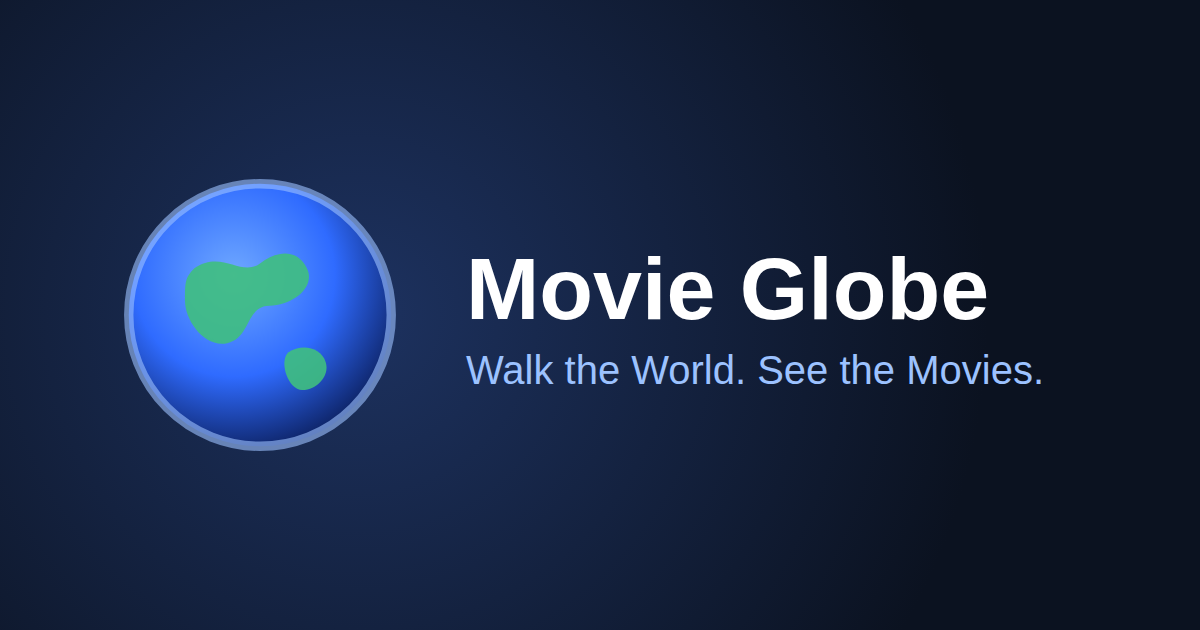
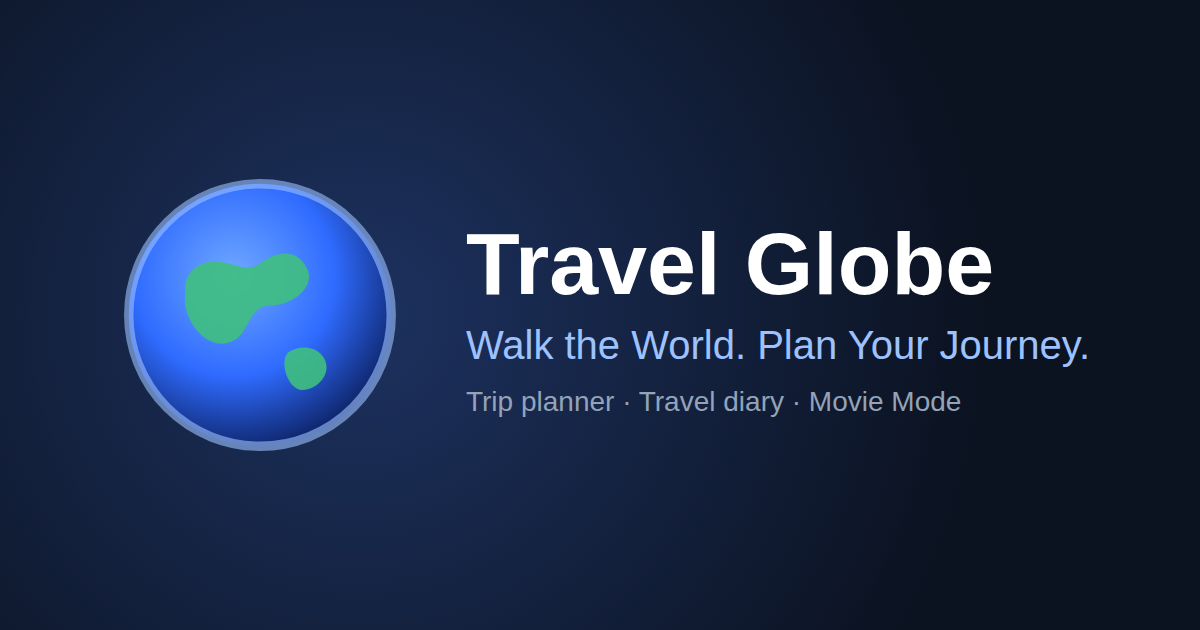
Rename app to Travel Globe; show Movie Globe only in Movie Mode
Claude-Session: https://claude.ai/code/session_01QopA1L5wnMb5PqXuQnHyca

Changed region(s): [[0.37, 0.3619, 0.925, 0.6635]]

diff --git a/index.html b/index.html
@@ -5,11 +5,11 @@
     <link rel="icon" type="image/svg+xml" href="/favicon.svg" />
     <meta name="viewport" content="width=device-width, initial-scale=1.0, viewport-fit=cover" />
     <meta name="theme-color" content="#0B1220" />
-    <title>Movie Globe — Walk the World. See the Movies.</title>
-    <meta name="description" content="Walk a customisable character across an interactive 3D globe to visit famous film locations, learn about them and plan a real trip." />
+    <title>Travel Globe — Walk the World. Plan Your Journey.</title>
+    <meta name="description" content="Plan trips anywhere on an interactive 3D globe, keep a travel diary, and switch to Movie Mode to visit famous film locations." />
     <meta property="og:type" content="website" />
-    <meta property="og:title" content="Movie Globe — Walk the World. See the Movies." />
-    <meta property="og:description" content="An interactive 3D globe of famous film locations. Explore, collect passport stamps and plan your trip." />
+    <meta property="og:title" content="Travel Globe — Walk the World. Plan Your Journey." />
+    <meta property="og:description" content="Plan trips and keep a travel diary on a 3D globe — or switch to Movie Mode to explore famous film locations." />
     <meta property="og:image" content="/og-image.png" />
     <meta name="twitter:card" content="summary_large_image" />
     <link rel="apple-touch-icon" href="/icons/icon-192.png" />
@@ -19,7 +19,7 @@
   </head>
   <body>
     <div id="root"></div>
-    <noscript>Movie Globe needs JavaScript to show the interactive globe.</noscript>
+    <noscript>Travel Globe needs JavaScript to show the interactive globe.</noscript>
     <script type="module" src="/src/main.tsx"></script>
   </body>
 </html>

diff --git a/src/lib/brand.ts b/src/lib/brand.ts
@@ -1,0 +1,20 @@
+import { useEffect } from 'react';
+import { useAppStore, type AppMode } from '../store/useAppStore';
+
+/** The app is "Travel Globe"; it becomes "Movie Globe" only while in Movie Mode. */
+export const BRAND: Record<AppMode, { name: string; tagline: string }> = {
+  normal: { name: 'Travel Globe', tagline: 'Walk the World. Plan Your Journey.' },
+  movie: { name: 'Movie Globe', tagline: 'Walk the World. See the Movies.' },
+};
+
+export function useBrand() {
+  return BRAND[useAppStore((s) => s.appMode)];
+}
+
+/** Keeps the browser tab title in sync with the current mode's brand. */
+export function useDocumentTitle(): void {
+  const { name, tagline } = useBrand();
+  useEffect(() => {
+    document.title = `${name} — ${tagline}`;
+  }, [name, tagline]);
+}

diff --git a/vite.config.ts b/vite.config.ts
@@ -12,9 +12,9 @@ export default defineConfig({
       registerType: 'autoUpdate',
       includeAssets: ['favicon.svg', 'textures/earth/*_2k.webp'],
       manifest: {
-        name: 'Movie Globe',
-        short_name: 'Movie Globe',
-        description: 'Walk the World. See the Movies.',
+        name: 'Travel Globe',
+        short_name: 'Travel Globe',
+        description: 'Walk the World. Plan Your Journey.',
         theme_color: '#0B1220',
         background_color: '#0B1220',
         display: 'standalone',

diff --git a/scripts/gen_credits.py b/scripts/gen_credits.py
@@ -7,14 +7,15 @@ photos = json.loads((ROOT / "src/data/photos.json").read_text())
 locs = {l["slug"]: l for l in json.loads((ROOT / "src/data/locations.json").read_text())}
 
 out = ["# Credits", "",
-       "Movie Globe uses only free assets (CC0, public domain or CC BY). No movie posters, stills, logos or soundtrack clips are used.", "",
+       "Travel Globe (and its Movie Mode, Movie Globe) uses only free assets (CC0, public domain or CC BY). No movie posters, stills, logos or soundtrack clips are used.", "",
        "## Earth textures", "",
        "- **Day (Blue Marble: Next Generation, Dec 2004)** — NASA Earth Observatory / Reto Stöckli. Public domain. [Source](https://visibleearth.nasa.gov/images/73909)",
        "- **Night lights (Black Marble 2012)** — NASA Earth Observatory / NOAA NGDC. Public domain. [Source](https://visibleearth.nasa.gov/images/79765)",
        "- **Clouds (Blue Marble cloud composite)** — NASA Goddard Space Flight Center. Public domain. [Source](https://visibleearth.nasa.gov/images/57747)",
        "- **Topography (bump) and ocean mask (specular)** — derived from NASA / GEBCO elevation map. Public domain. [Source](https://visibleearth.nasa.gov/images/73934)",
        "",
-       "## Character, sound and icons", "",
+       "## Character, sound, search and icons", "",
+       "- **Place search & reverse geocoding (Normal Mode)** — [OpenStreetMap Nominatim](https://nominatim.org) · Data © [OpenStreetMap contributors](https://www.openstreetmap.org/copyright) (ODbL).",
        "- **Explorer character, balloon and pins** — built procedurally in code for this project (no third-party models).",
        "- **Ambient music and sound effects** — synthesised at runtime with the Web Audio API (no audio files).",
        "- **Icons** — [Lucide](https://lucide.dev) (ISC licence).",
@@ -31,6 +32,6 @@ for slug, items in photos.items():
         out.append(f"- {p['credit']} — {p['license']} — [Source]({p['sourceUrl'].replace('(', '%28').replace(')', '%29')})")
     out.append("")
 out += ["## Disclaimer", "",
-        "Movie Globe is not affiliated with Trip.com or any film studio. Film titles are used only to identify locations. Location descriptions are original text written for this project.", ""]
+        "Travel Globe / Movie Globe is not affiliated with Trip.com or any film studio. Film titles are used only to identify locations. Location descriptions are original text written for this project.", ""]
 (ROOT / "CREDITS.md").write_text("\n".join(out))
 print("wrote CREDITS.md", sum(len(v) for v in photos.values()), "photos")

diff --git a/CREDITS.md b/CREDITS.md
@@ -1,6 +1,6 @@
 # Credits
 
-Movie Globe uses only free assets (CC0, public domain or CC BY). No movie posters, stills, logos or soundtrack clips are used.
+Travel Globe (and its Movie Mode, Movie Globe) uses only free assets (CC0, public domain or CC BY). No movie posters, stills, logos or soundtrack clips are used.
 
 ## Earth textures
 
@@ -9,8 +9,9 @@ Movie Globe uses only free assets (CC0, public domain or CC BY). No movie poster
 - **Clouds (Blue Marble cloud composite)** — NASA Goddard Space Flight Center. Public domain. [Source](https://visibleearth.nasa.gov/images/57747)
 - **Topography (bump) and ocean mask (specular)** — derived from NASA / GEBCO elevation map. Public domain. [Source](https://visibleearth.nasa.gov/images/73934)
 
-## Character, sound and icons
+## Character, sound, search and icons
 
+- **Place search & reverse geocoding (Normal Mode)** — [OpenStreetMap Nominatim](https://nominatim.org) · Data © [OpenStreetMap contributors](https://www.openstreetmap.org/copyright) (ODbL).
 - **Explorer character, balloon and pins** — built procedurally in code for this project (no third-party models).
 - **Ambient music and sound effects** — synthesised at runtime with the Web Audio API (no audio files).
 - **Icons** — [Lucide](https://lucide.dev) (ISC licence).
@@ -136,4 +137,4 @@ Photos show the real filming locations. Each is used under the licence listed; c
 
 ## Disclaimer
 
-Movie Globe is not affiliated with Trip.com or any film studio. Film titles are used only to identify locations. Location descriptions are original text written for this project.
+Travel Globe / Movie Globe is not affiliated with Trip.com or any film studio. Film titles are used only to identify locations. Location descriptions are original text written for this project.

diff --git a/Handover.md b/Handover.md
@@ -1,4 +1,4 @@
-# Handover — Movie Globe
+# Handover — Travel Globe (Movie Globe in Movie Mode)
 
 ## 1. Task status
 
@@ -14,6 +14,14 @@
 | H Extras | T41–T45 | ✅ Done (tours, passport, deep links + share, synthesised audio off by default, 3-step onboarding) |
 | I Release | T46–T50 | ✅ Done (loading screen, lazy pages/photos, adaptive quality + Low power toggle, a11y list view, PWA, unit + E2E tests, CI workflow) |
 | | T51 Deploy | ⛔ Blocked — needs a hosting account. `vercel.json` / `netlify.toml` and OG/meta tags are ready |
+
+### Normal Mode / Movie Mode (follow-up)
+
+- Toggle: `src/ui/ModeToggle.tsx` (top centre on desktop, under the header on mobile). Mode persists; Normal Mode is the default.
+- Switching (`src/lib/mode.ts`) clears the selection, tours, filters and travel, leaves pages that belong to the other mode, and swaps the pins, navigation, search, Explore list, journey bar, tap behaviour, arrival logic and branding (Travel Globe vs. Movie Globe, `src/lib/brand.ts`).
+- Normal Mode: places are stored as `DiaryPlace` in the persisted store; `/place/new`, `/place/:id` (`src/ui/PlacePanel.tsx`) and `/trips` (`src/pages/TripsPage.tsx`) cover the planner and diary. Place names come from OpenStreetMap Nominatim (`src/lib/geocode.ts`, free, about 1 request/s). If it fails, coordinates are used instead.
+- Deep links switch mode automatically (`/location/*`, `/saved`, `/tours`, `/passport` → Movie; `/place/*`, `/trips` → Normal).
+- Bugs fixed along the way: the mobile menu drawer couldn't be tapped (pointer-events), and position saves and arrival checks used clamped physics time, so they stalled at low fps.
 
 ## 2. Run / build / deploy
 

diff --git a/README.md b/README.md
@@ -1,6 +1,11 @@
-# Movie Globe 🌍🎬
+# Travel Globe 🌍 (Movie Globe in Movie Mode 🎬)
 
-*Walk the World. See the Movies.* — an interactive 3D globe where a customisable chibi explorer walks or flies to famous film locations, collects passport stamps, and links out to Trip.com to plan a real trip.
+An interactive 3D globe with a customisable chibi explorer and two modes, switched with the toggle at the top:
+
+- **Normal Mode — Travel Globe** (default): tap anywhere on the globe or search any city (OpenStreetMap) to drop a pin, save it to your **planner** with a date and notes, walk or fly there, and arriving logs it in your **travel diary** (`/trips`).
+- **Movie Mode — Movie Globe**: explore 24 verified film locations, travel to them, collect passport stamps and take guided movie tours.
+
+Both modes link out to Trip.com to book a real trip.
 
 Spec: [`Movie Globe Plan Md.md`](./Movie%20Globe%20Plan%20Md.md) · Status & deviations: [`Handover.md`](./Handover.md) · Assets: [`CREDITS.md`](./CREDITS.md)
 
@@ -28,4 +33,4 @@ Drag to orbit, scroll/pinch to zoom · WASD/arrows to walk (Shift = run) or the 
 - `scripts/gen_credits.py` — regenerates `CREDITS.md` from `src/data/photos.json`.
 - `scripts/render_icons.mjs` — renders PWA icons and the OG image from `public/favicon.svg` with Chromium.
 
-Movie Globe is not affiliated with Trip.com or any film studio.
+Travel Globe / Movie Globe is not affiliated with Trip.com or any film studio.
